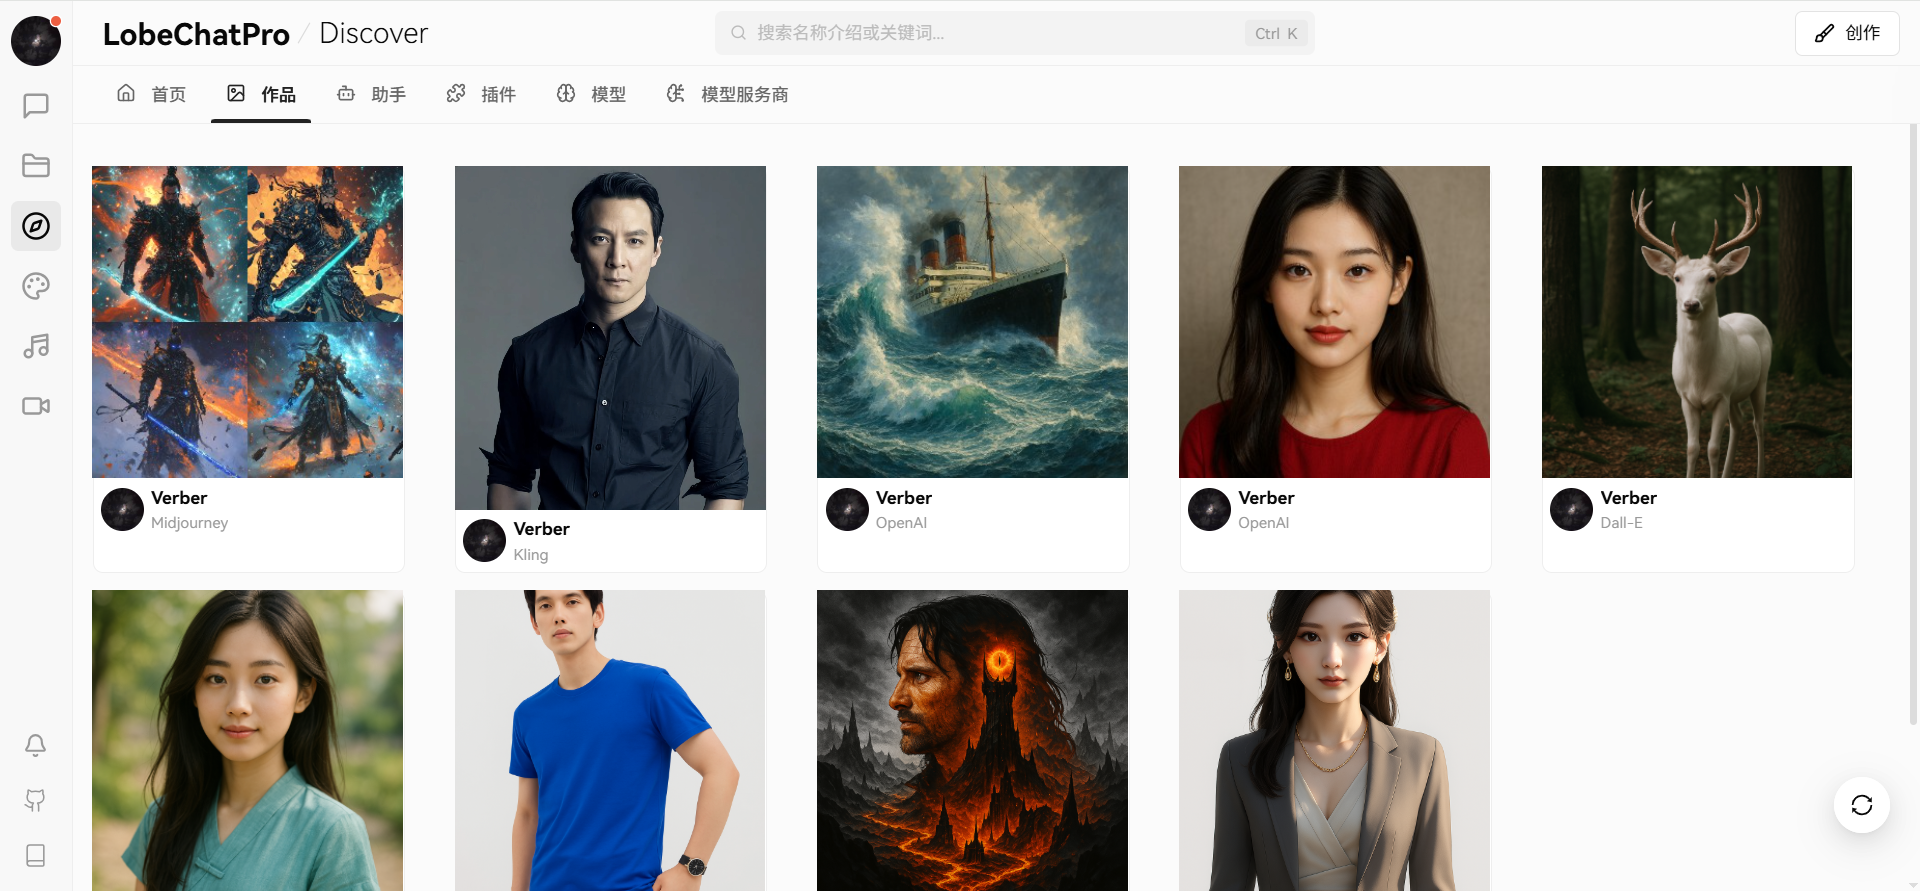
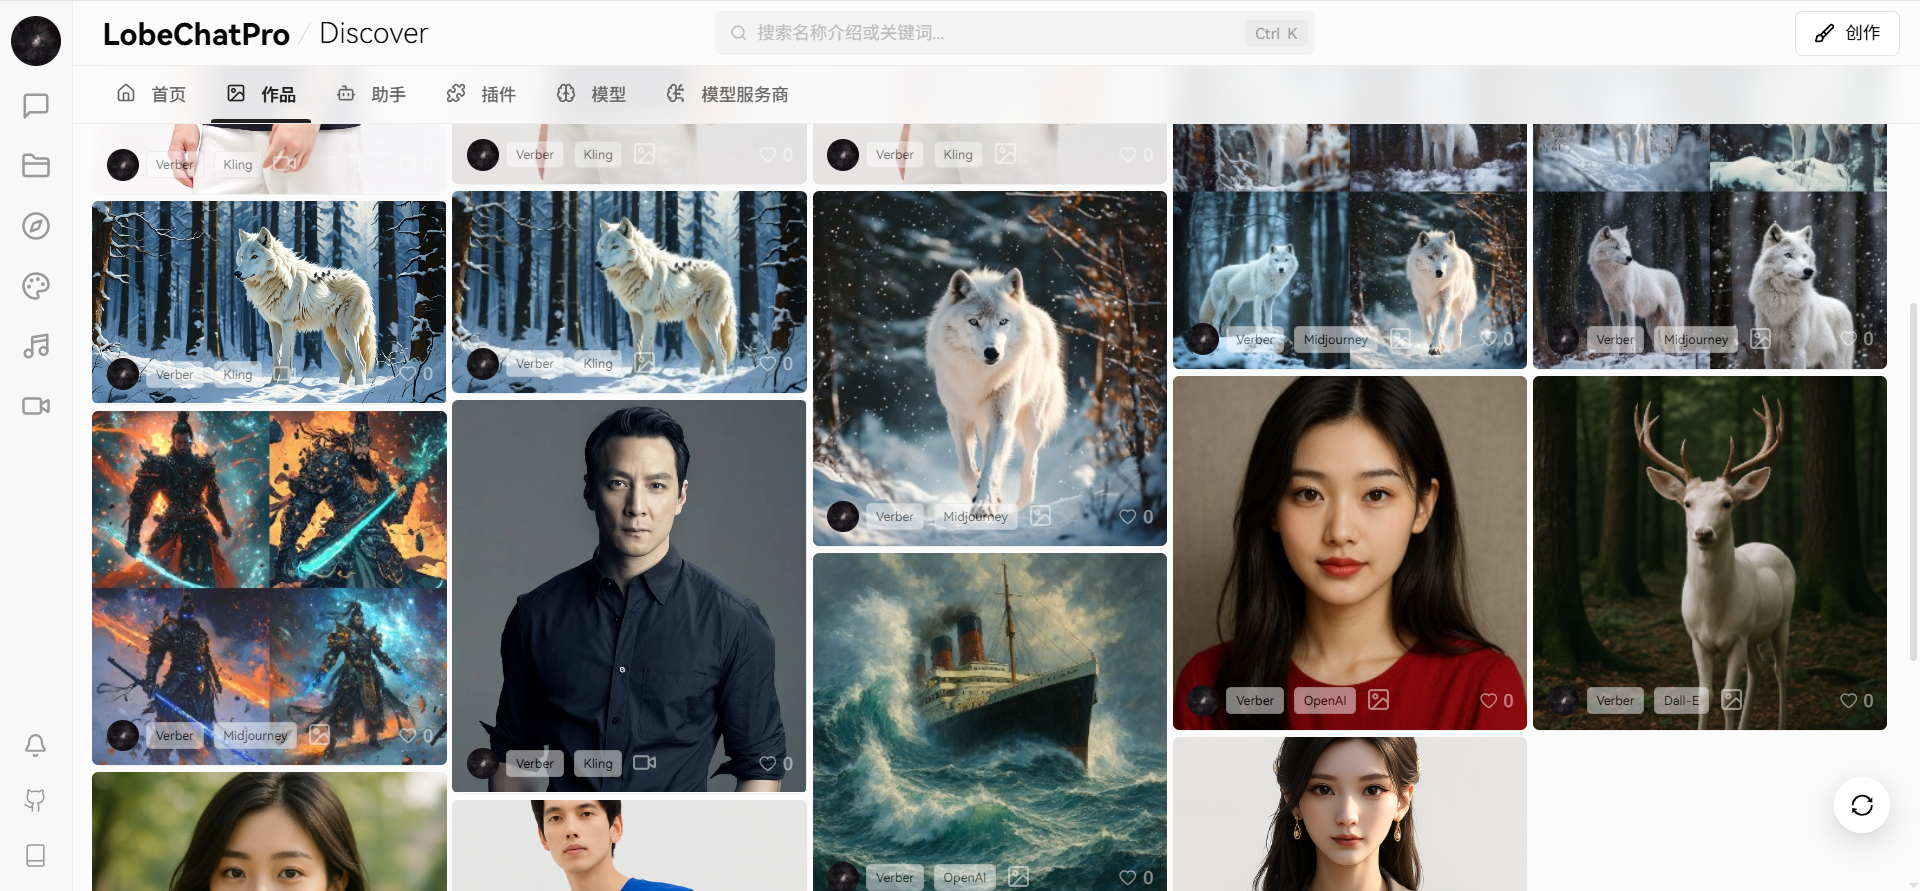
优化作品页的展示和布局。

diff --git a/README.md b/README.md
@@ -8,14 +8,14 @@
   
 ### 版本介绍
   - 版本号：latest
-  - 更新时间： 2025.06.11
+  - 更新时间： 2025.06.17
   - 演示站点：https://lobe.annyun.cn ，手机端可以关注公众号：AnnYun_AI(或扫下方二维码)，一键登录即可体验。充值入口：我的-》账户管理-》充值消费。
   - 管理端：https://lobea.annyun.cn,  演示账号：annyun  密码：123456
 
 ![gongzhonghao](/images/gongzhonghao.jpg)
 
 ### 项目介绍
-- 基于[lobe-chat](https://github.com/lobehub/lobe-chat)，并定期同步原版代码，最近同步时间： 2025.06.11
+- 基于[lobe-chat](https://github.com/lobehub/lobe-chat)，并定期同步原版代码，最近同步时间： 2025.06.17
 - **增加绘图面板**，更全面的参数配置，更好看的界面, midjourney、Kling、dall-e-3、gpt-image-1、Flux、stable-diffusion(待实现)。
   - **支持midjourney-proxy**
   - **支持midjourney-proxy-plus**，目前已支持大部分功能：
